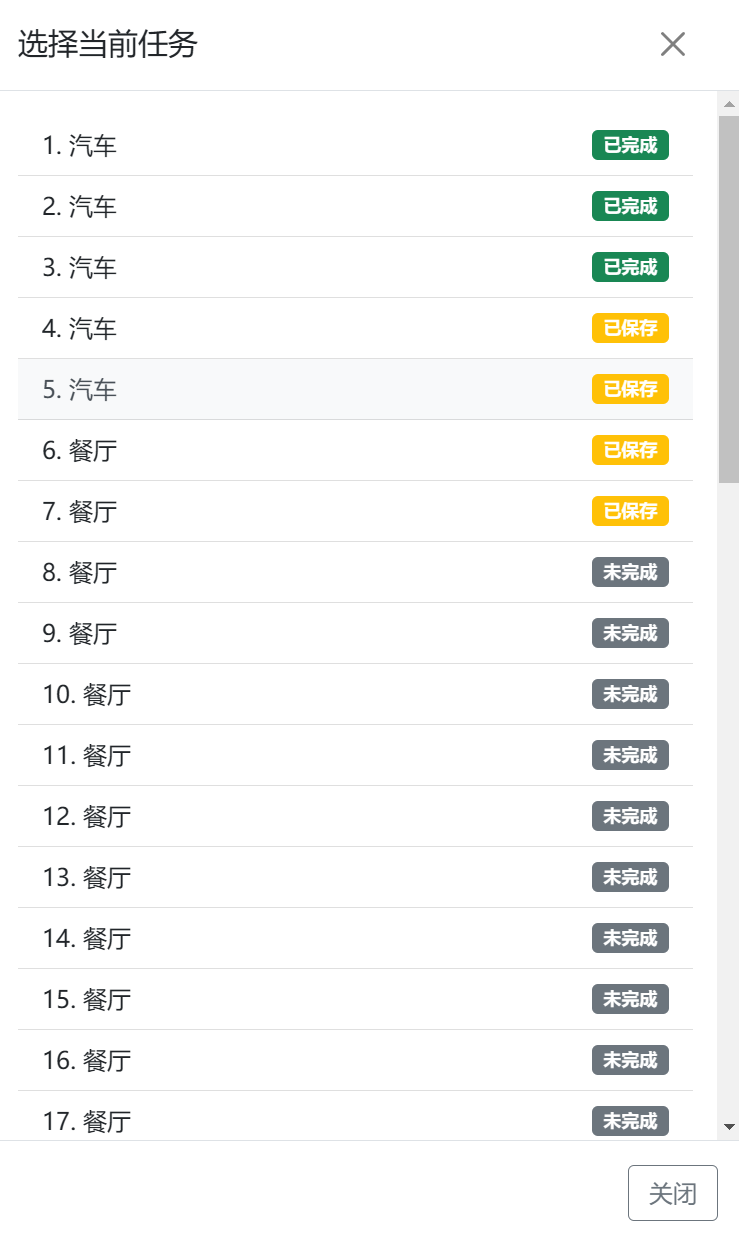
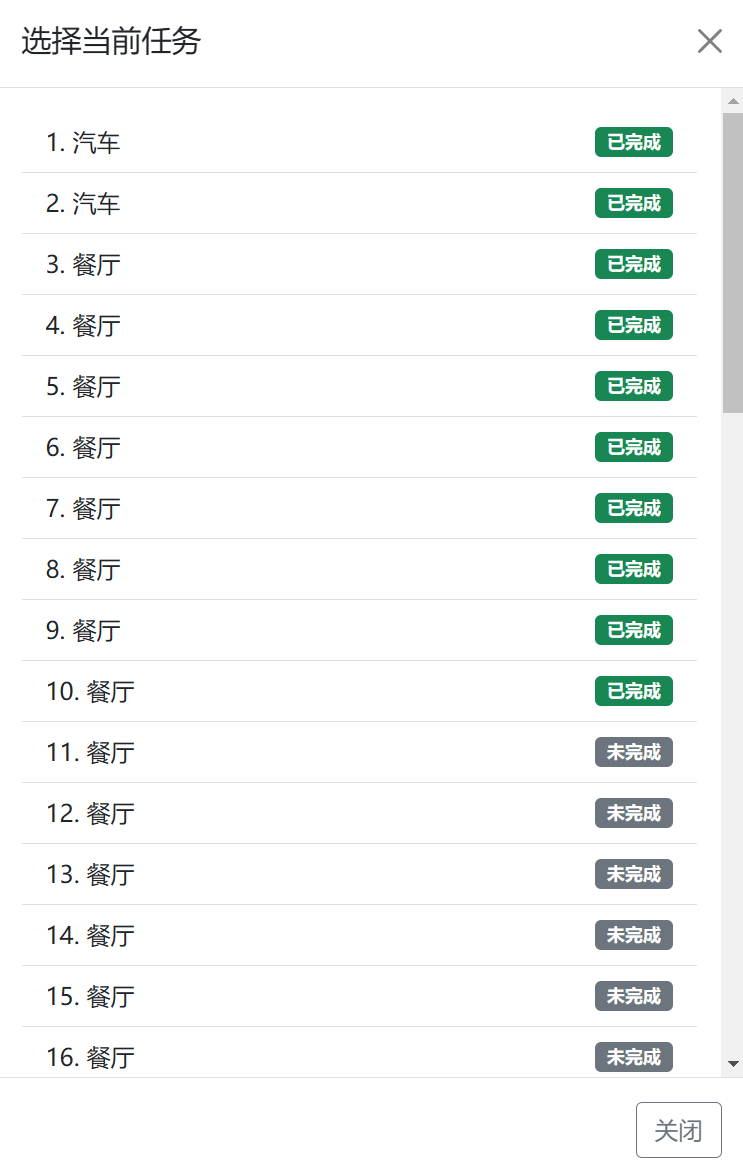
Screen annotation guidelines

diff --git a/docs/website.md b/docs/website.md
@@ -10,65 +10,36 @@
 
 ## 任务组
 
-点击“开始标注”后，网页将跳转到任务组选择界面，如下图所示。其中，每个任务组会显示其名称与标注状态：绿色表示完成标注的任务数，灰色表示未标注的任务数。
+点击“开始标注”后，网页将跳转到任务组选择界面，如下图所示。任务组会显示其名称与标注状态：绿色表示完成标注的任务数，灰色表示未标注的任务数。
 
-*注：一个任务“完成”当且仅当用户对该任务得到了一个或多个归纳并保存。*
+*注：一个任务“完成”当且仅当用户对该任务完成了情感一致性判断*
 
-<center><img title="" src="../img/标注任务组选择.png" alt="任务组" width="100%"></center>
+<center><img title="" src="../img/任务组选择.png" alt="任务组" width="100%"></center>
 
-点击选择一个任务组，即可进入对应任务组的标注页面，并自动跳转至上次离开该任务组时正在标注的任务（新用户或网站更新后第一次访问会跳转至第一个任务）。点击导航栏上的“指南”按钮同样可以在新标签打开本指南。
+点击任务组进入标注页面，并自动跳转至上次离开时正在标注的任务（新用户或网站更新后第一次访问会跳转至第一个任务）。点击导航栏上的“指南”按钮同样可以在新标签打开本指南。
 
-## 标注界面
+<img title="" src="../img/未标注界面.png" alt="">
+
+
+下方操作栏中各按钮功能如下：
+- 选择任务组：点击后返回任务组选择界面，与点击导航栏上的“标注”按钮效果相同。
+- 保存任务：点击后保存当前标注。每一次标注操作都会自动保存当前标注结果，同时每次回到标注页面都会重新加载标注。
+- 选择任务：点击后出现任务选择列表，点击任务进行跳转。同时可以点击左/右箭头可直接跳转到前/后一条任务。切换任务时，网页将自动保存当前任务的标注结果。
+
+任务列表的每个条目显示了任务的实体类型和标注状态，如下图所示。其中，绿色表示任务已完成标注，如图中前十个任务；灰色表示任务尚未标注，如图中第十个任务之后的所有任务。
+<img src="../img/任务选择.png" alt="任务选择" width="50%"/>	
+
+## 标注流程
 
 *注意：标注过程中请务必保持网络连接畅通，否则当前任务的未保存修改可能会丢失；如果网页显示不正常，请检查并尝试关闭 VPN。*
 
-### 模式一：单一评论论点归纳
+用户在登陆后，进入标注组选择页面：
 
-单一评论论点归纳模式下标注界面如下图所示：
+<img title="" src="../img/任务组选择.png" alt="">
 
-<img src="../img/单评论未标注界面.png" alt="单评论未标注界面" width="100%"/>
+点击任务组进入到标注页面，完成任务一、任务二
 
-1. 角度选择：
-	- 保存：保存当前所选角度
-	- 修改：对已保存的角度进行修改
-	- 删除：删除对应的角度
-	
-2. 归纳输入：
-	- 选择任务组：点击后返回任务组选择界面，与点击导航栏上的“标注”按钮效果相同。
-	- 添加/删除：点击后添加/删除归纳区域的输入框，最少为3条，最多为6条。
-	- 保存任务：点击后保存当前标注。每一次标注操作都会自动保存当前标注结果，同时每次回到标注页面都会重新加载标注。
-	- 选择任务：点击后出现任务选择列表，点击任务进行跳转。同时可以点击左/右箭头可直接跳转到前/后一条任务。切换任务时，网页将自动保存当前任务的标注结果。
+<img title="" src="../img/标注完成界面.png" alt="">
 
-任务列表的每个条目显示了任务的实体类型和标注状态，如下图所示。其中，绿色表示任务已完成标注，如图中前三个任务；黄色表示任务部分完成并已保存，如图中第四个到第七个；如灰色表示任务尚未标注，如图中第七个任务之后的所有任务。
+完成后点击“保存任务”按钮完成保存，该标注任务完成，选择下一任务。
 
-<img src="../img/任务选择.png" alt="任务选择" width="50%"/>	
-
-完成当前任务标注后的标注界面如下图所示：
-
-<img src="../img/单评论已标注界面.png" alt="单评论已标注界面" width="100%"/>
-
-### 模式二：多评论论点归纳
-
-多评论论点归纳模式下标注界面如下图所示：
-
-<center><img src="../img/多评论未标注界面.png" alt="多评论未标注界面" width="80%"/></center>
-
-1. 评论筛选
-	- 点击评论前方的✔或❌，决定是否删除某一条评论。由于所给的多条评论是由抽样得到的，可能出现部分评论完全矛盾或与其他评论不相关的情况，因此需要将无效评论删除。
-
-2. 角度选择（同模式一）
-
-3. 归纳输入（同模式一）
-
-
-完成当前任务标注后的标注界面如下图所示：
-
-<center><img src="../img/多评论已标注界面.png" alt="多评论已标注界面" width="80%"/></center>
-
-请尽量确保在任务截止时，任务组中所有任务均显示为绿色。如果存在无法标注的情况，请提交错误反馈。
-
-### 错误反馈
-
-标注页面下方的“提交错误报告”按钮可供填写并提交错误报告，点击会弹出相应界面，如下图所示。请选择合适的错误原因，并详细填写错误信息，点击“提交”即可提交错误反馈报告。
-
-<img src="../img/错误报告.png" alt="错误报告" width="50%"/>

diff --git a/docs/task.md b/docs/task.md
@@ -1,0 +1,26 @@
+# 标注任务
+
+评论筛选任务指对给定的多个评论进行，包括两个子任务：评论筛选，判断情感一致性。标注者需登录标注网页方可进行标注。
+
+
+进入标注页面后，用户会得到一个角度以及多个评论，这些评论的情感极性不一致，即某一评论是正向表述，而另一评论是负向表述。需要强调的使，这些评论并不一定指向同一实体，并且不一定与所给角度完全相关。用户需要对所给评论进行筛选，以获得实体一致且与所给角度相关的评论。
+
+<center><img src="../img/评论筛选标注.png" alt="评论筛选标注" width="80%"></center>
+
+### 任务一：评论筛选
+
+由于所给的多条评论是由抽样得到的，可能出现部分评论完全矛盾或与其他评论不相关等的情况，因此首先需要将无效评论删除。
+无效评论包括：
+* 与其他大多数评论描述对象明显不一致（不包括描述实体模糊的情况）
+* 与其他大多数评论的表述完全矛盾
+* 与所给角度无关
+* 表述模糊没有信息量
+
+用户可点击无效评论前的勾选符号✔使其变为叉号❌，从而删除该条评论。
+
+### 任务二：判断情感一致性
+
+对筛选过后剩余的评论，判断情感极性是否一致，选择对应的按钮。
+
+<img title="" src="../img/标注完成界面.png" alt="">
+

diff --git a/docs/index.md b/docs/index.md
@@ -10,6 +10,8 @@
 
 关于一个实体既会有正面评论也会有负面评论，甚至在一条评论中同时包含该实体的正面和负面信息。为了全面地评价一个实体，需要将评论中包含的情感极性冲突的论据进行归纳，得到自洽性的论点。
 
+为获得相应数据集，我们基于方面级评论情感数据集构造出了原始的语料，将涉及到同一角度多条评论作为一组，其中每一组都既有正向评论也有负向评论。为了获得可以应用的数据，需要对上述的语料进行进一步筛选，包括删除掉实体明显不一致、情感极性完全矛盾、角度无关以及表述模糊的句子。
+
 ## 联系方式
 
 如有任何疑问，请联系复旦大学 DISC 论点归纳小组项目成员：
